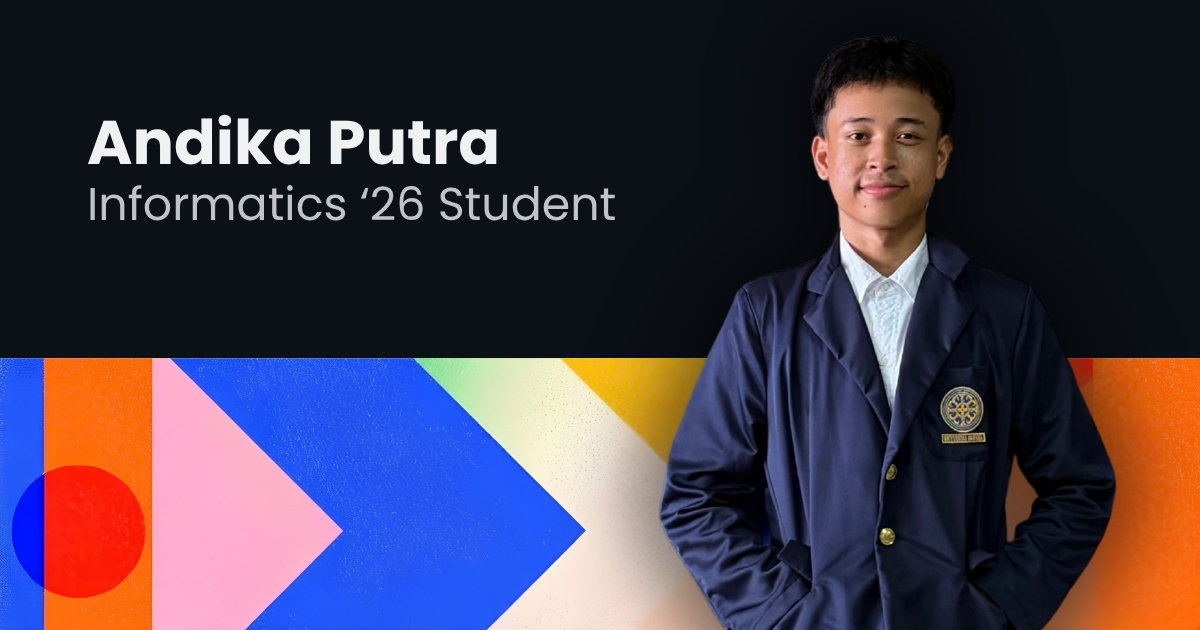
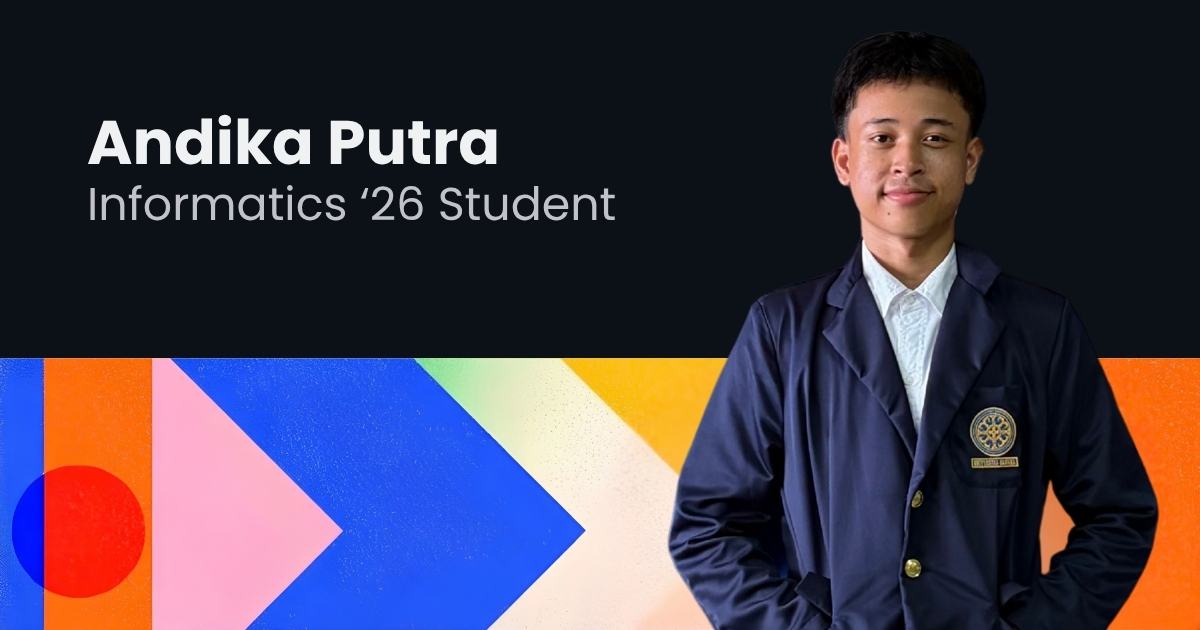
chore(profile): swap hero image, rewrite About Me without emojis

Changed region(s): [[0.4933, 0.0905, 0.9867, 1.0]]

diff --git a/README.md b/README.md
@@ -4,12 +4,12 @@
 
 ## About Me
 
-Hi, I'm **Andika**, an Informatics student at **Udayana University**. I like working on web apps from start to finish, from the frontend interface down to the database behind it.
+I'm **Andika**, an Informatics student at **Udayana University** building web applications end to end, from frontend interfaces to backend systems and databases.
 
-- 🔭 Currently working on **[OpenPOS](https://github.com/0xMinomus/openPOS)**, a Point of Sale system for Indonesian SMEs, now at integrated MVP stage
-- 🌱 Learning by doing: frontend, backend, databases, APIs, and deployment. I want to understand the whole development process, not just one part of it
-- 🤖 I use AI tools like OpenCode, Cursor, and Antigravity to work faster, but I always read and understand the code before shipping it
-- 🎯 My goal is to become a full-stack developer who understands not only how to build an app, but also how the systems behind it work
+- Currently building **[OpenPOS](https://github.com/0xMinomus/openPOS)**, a Point of Sale system for Indonesian SMEs, now at integrated MVP stage
+- Working across frontend, backend, databases, APIs, and deployment to understand the full development lifecycle
+- Using AI-assisted tools to accelerate development while ensuring full code comprehension before shipping
+- Focused on becoming a full-stack developer with a solid grasp of both application development and the systems behind it
 
 ## Tech Stack
 
